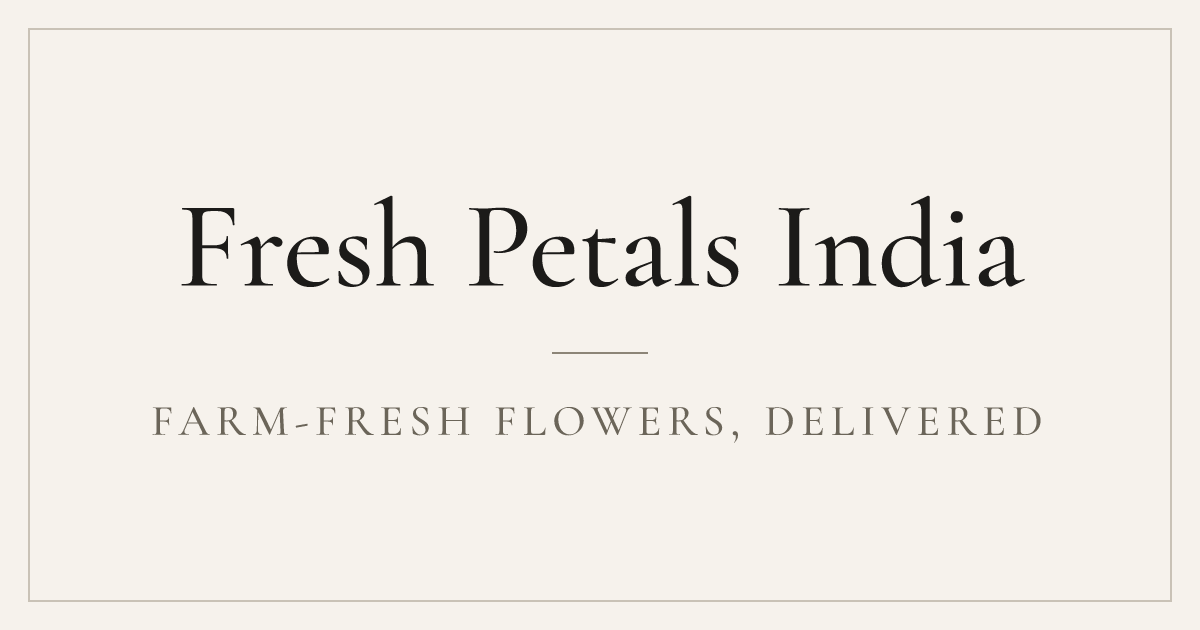
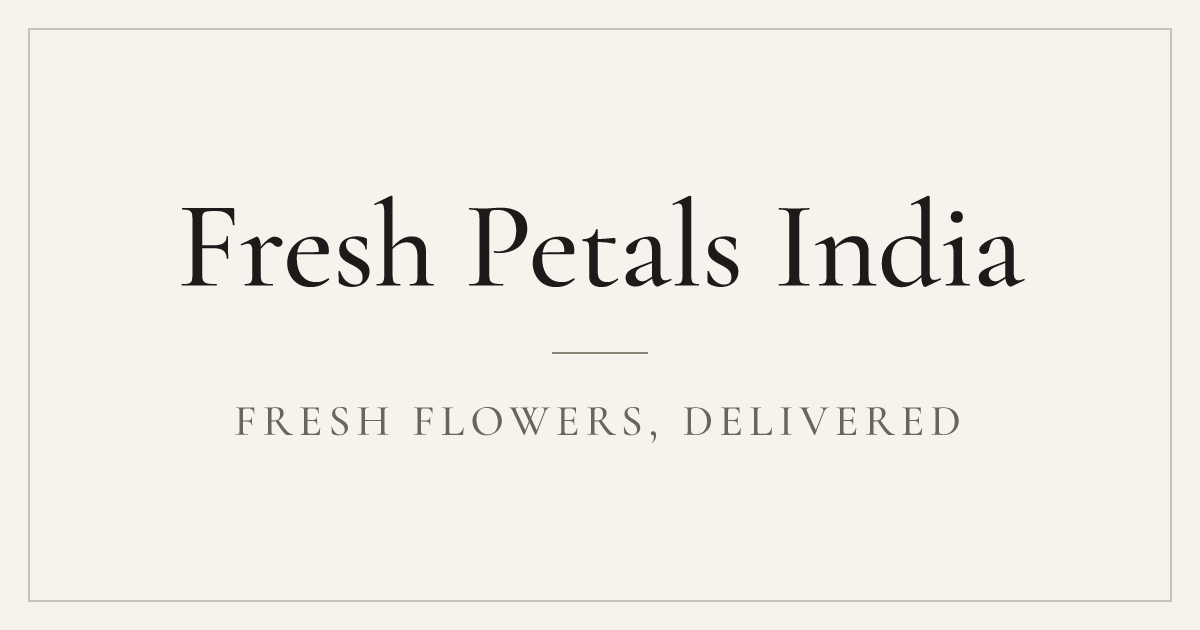
fix(storefront): og/twitter images + site name on all listings, neutral copy, shipping parity, tag-preserving redirect, footer socials, permanent /shop redirect

Changed region(s): [[0.1233, 0.6333, 0.8633, 0.6937]]

diff --git a/frontend/src/lib/settings-context.tsx b/frontend/src/lib/settings-context.tsx
@@ -61,16 +61,16 @@ export type StoreSettings = {
 };
 
 const FALLBACK_HERO: StoreHero = {
-  eyebrow: "Hand-tied by our florists",
+  eyebrow: "Fresh cut flowers",
   title: "Fresh-cut flowers, arranged with care.",
-  subtitle: "Fresh-cut stems and bouquets, arranged by our florists in Delhi NCR.",
+  subtitle: "Fresh-cut stems for gifting, for your home and for events in Delhi NCR.",
   ctaLabel: "Shop flowers",
   ctaHref: "/products",
 };
 
 const FALLBACK_USPS: StoreUSP[] = [
-  { title: "Hand-tied by our florists", body: "Every bouquet is arranged by hand in Delhi NCR." },
-  { title: "Fresh-cut stems", body: "Sourced from the flower market and prepared for your vase." },
+  { title: "Chosen with care", body: "Stems are selected and prepared for your vase." },
+  { title: "Fresh-cut stems", body: "Prepared for your vase." },
   { title: "Careful packing", body: "Wrapped so your flowers arrive in good condition." },
   { title: "Made for occasions", body: "Birthdays, anniversaries, weddings or sympathy: we arrange for every moment." },
 ];
@@ -239,6 +239,25 @@ export function whatsappLink(phoneOrUrl: string, message?: string): string | nul
   if (digits.length < 8) return null;
   const base = `https://wa.me/${digits}`;
   return message ? `${base}?text=${encodeURIComponent(message)}` : base;
+}
+
+const SOCIAL_HOSTS = {
+  facebook: /^((www|m|web)\.)?(facebook\.com|fb\.com|fb\.me)$/,
+  youtube: /^((www|m)\.)?(youtube\.com|youtu\.be)$/,
+  pinterest: /^([a-z]{2,3}\.|www\.)?pinterest\.[a-z.]{2,6}$/,
+} as const;
+
+/** Facebook / YouTube / Pinterest profile link: only an https URL on the platform's own host, else null. */
+export function socialLink(kind: keyof typeof SOCIAL_HOSTS, value: string | null | undefined): string | null {
+  const v = value?.trim();
+  if (!v || isPlaceholderSetting(v)) return null;
+  try {
+    const u = new URL(v);
+    if (u.protocol !== "https:" || u.username || u.password) return null;
+    return SOCIAL_HOSTS[kind].test(u.hostname.toLowerCase()) ? u.toString() : null;
+  } catch {
+    return null;
+  }
 }
 
 export function instagramLink(value: string): string | null {

diff --git a/frontend/src/app/products/page.tsx b/frontend/src/app/products/page.tsx
@@ -1,7 +1,7 @@
 import type { Metadata } from "next";
 import CatalogueView from "@/components/product/CatalogueView";
 import { loadCatalogue } from "@/lib/catalogue-data";
-import { metaDescription } from "@/lib/seo";
+import { metaDescription, socialMeta } from "@/lib/seo";
 import { listHref, type RawSearchParams } from "@/lib/list-params";
 
 // R1: never prerender at build time (the API is not reachable during `next build`).
@@ -19,7 +19,7 @@ export async function generateMetadata({ searchParams }: Props): Promise<Metadat
   const title = `Fresh Cut Flowers Online${pageSuffix}`;
   const description =
     metaDescription(
-      "Shop farm-fresh cut flowers, bouquets and plants from Fresh Petals India. Hand-selected stems, delivered fresh.",
+      "Shop fresh cut flowers online from Fresh Petals India. Choose your stems and have them delivered across Delhi NCR.",
       155 - pageSuffix.length,
     ) + pageSuffix;
   // Canonical keeps the filters that change the product set (category, tag, page) and drops sort/search.
@@ -29,7 +29,7 @@ export async function generateMetadata({ searchParams }: Props): Promise<Metadat
     title,
     description,
     alternates: { canonical },
-    openGraph: { title, description, url: canonical, type: "website" },
+    ...socialMeta(title, description, canonical),
     ...(noindex ? { robots: { index: false, follow: true } } : {}),
   };
 }
@@ -46,7 +46,7 @@ export default async function ProductsPage({ searchParams }: Props) {
       activeCategorySlug={params.category}
       eyebrow={params.q ? "Search" : "The collection"}
       heading={heading}
-      intro="Hand-selected stems, bouquets and plants, cut fresh and delivered to your door."
+      intro="Fresh cut flowers, ready to order online and delivered to your door."
       filtered={Boolean(params.category || params.tag || params.q)}
     />
   );

diff --git a/frontend/src/lib/catalogue-data.ts b/frontend/src/lib/catalogue-data.ts
@@ -5,7 +5,7 @@ import { listCategories, listProducts, type ProductPage } from './server-api';
 import { PAGE_SIZE, listHref, parseListParams, type ListParams, type RawSearchParams } from './list-params';
 import { occasionForTag } from './occasions';
 import { shownCategories } from './categories';
-import { metaDescription } from './seo';
+import { metaDescription, socialMeta } from './seo';
 
 export function flattenCategories(list: ApiCategory[]): ApiCategory[] {
   return list.flatMap((c) => [c, ...flattenCategories(c.children ?? [])]);
@@ -23,10 +23,13 @@ export type CatalogueData = {
 
 /**
  * Where a /products?category=|tag= URL permanently lives now (ruling R9), or undefined when it stays on /products.
- * A known category wins over a tag; sort, page and search are carried over; unknown values never redirect.
+ * A known category alone goes to its collection and an occasion tag alone to its occasion page. A category AND a tag
+ * together stay on /products (the landing pages cannot express both, and a redirect would silently drop the tag).
+ * Sort, page and search are carried over; unknown values never redirect.
  */
 export function landingRedirectTarget(params: ListParams, knownCategory?: ApiCategory): string | undefined {
   const rest = { category: undefined, tag: undefined } as const;
+  if (params.category && params.tag) return undefined;
   if (params.category && knownCategory) {
     return listHref(params, rest, `/collections/${encodeURIComponent(knownCategory.slug)}`);
   }
@@ -113,7 +116,7 @@ export function landingMetadata(args: {
     title,
     description,
     alternates: { canonical },
-    openGraph: { title, description, url: canonical, type: 'website' },
+    ...socialMeta(title, description, canonical),
     ...(noindex ? { robots: { index: false, follow: true } } : {}),
   };
 }

diff --git a/frontend/src/app/layout.tsx b/frontend/src/app/layout.tsx
@@ -34,30 +34,31 @@ export const revalidate = 300;
 export const metadata: Metadata = {
   metadataBase: new URL(SITE),
   title: {
-    default: "Fresh Petals India — Cut Flowers, Plants & Corporate Floral Solutions",
+    default: "Fresh Petals India — Cut Flowers & Corporate Floral Solutions",
     template: "%s · Fresh Petals India",
   },
   description:
-    "Farm-fresh cut flowers, indoor plants, and bulk corporate bouquets. Daily mandi-fresh stems, online ordering for cut flowers, custom enquiries for events.",
+    "Fresh cut flowers online, plus custom floral enquiries for corporate clients and events. Order online and have them delivered across Delhi NCR.",
   keywords: [
     "cut flowers",
     "fresh flowers",
     "wholesale flowers",
-    "corporate bouquets",
-    "indoor plants",
+    "corporate flowers",
     "floral arrangements",
     "Delhi flower supplier",
   ],
   openGraph: {
     title: "Fresh Petals India — Cut Flowers & Corporate Florals",
     description:
-      "Farm-fresh cut flowers, indoor plants, and bulk corporate bouquets — sourced fresh from the mandi every morning.",
+      "Fresh cut flowers online, plus custom floral enquiries for corporate clients and events.",
     type: "website",
+    siteName: "Fresh Petals India",
+    locale: "en_IN",
   },
   twitter: {
     card: "summary_large_image",
     title: "Fresh Petals India",
-    description: "Farm-fresh cut flowers, plants & corporate floral solutions.",
+    description: "Fresh cut flowers and corporate floral solutions.",
   },
   icons: {
     icon: "/favicon.ico",

diff --git a/frontend/src/components/chrome/FooterContact.tsx b/frontend/src/components/chrome/FooterContact.tsx
@@ -1,5 +1,5 @@
 "use client";
-import { instagramLink, mailtoLink, telLink, useSettings, whatsappLink } from "@/lib/settings-context";
+import { instagramLink, mailtoLink, socialLink, telLink, useSettings, whatsappLink } from "@/lib/settings-context";
 import { InstagramIcon, WhatsAppIcon } from "./icons";
 
 const link =
@@ -16,9 +16,14 @@ export default function FooterContact() {
   const wa = whatsappLink(s.whatsapp || s.phone);
   const ig = instagramLink(s.instagram);
   const address = s.address.trim();
+  const others = [
+    { label: "Facebook", href: socialLink("facebook", s.social?.facebook) },
+    { label: "YouTube", href: socialLink("youtube", s.social?.youtube) },
+    { label: "Pinterest", href: socialLink("pinterest", s.social?.pinterest) },
+  ].filter((x): x is { label: string; href: string } => Boolean(x.href));
 
   // Nothing configured: no empty column.
-  if (!tel && !mail && !address && !wa && !ig) return null;
+  if (!tel && !mail && !address && !wa && !ig && others.length === 0) return null;
 
   return (
     <div className="col-span-2 lg:col-span-1">
@@ -55,6 +60,13 @@ export default function FooterContact() {
             </a>
           </li>
         )}
+        {others.map((o) => (
+          <li key={o.label}>
+            <a href={o.href} target="_blank" rel="noopener noreferrer" className={link}>
+              {o.label}
+            </a>
+          </li>
+        ))}
       </ul>
     </div>
   );

diff --git a/frontend/src/lib/seo.ts b/frontend/src/lib/seo.ts
@@ -6,6 +6,32 @@ import { PLACEHOLDER_IMAGE } from './product-image';
 /** Canonical site origin, no trailing slash. */
 export const SITE: string = (process.env.NEXT_PUBLIC_SITE_URL || 'https://freshpetalsindia.com').replace(/\/+$/, '');
 
+export const OG_DEFAULT_ALT = 'Fresh Petals India: fresh flowers, delivered';
+
+/**
+ * openGraph + twitter blocks for pages that define their own `openGraph` (which replaces the parent's wholesale
+ * in Next, so image, site name and locale must be repeated). Uses the static brand cards.
+ */
+export function socialMeta(title: string, description: string, url: string) {
+  return {
+    openGraph: {
+      title,
+      description,
+      url,
+      type: 'website' as const,
+      siteName: 'Fresh Petals India',
+      locale: 'en_IN',
+      images: [{ url: '/opengraph-image.png', width: 1200, height: 630, alt: OG_DEFAULT_ALT }],
+    },
+    twitter: {
+      card: 'summary_large_image' as const,
+      title,
+      description,
+      images: [{ url: '/twitter-image.png', width: 1200, height: 630, alt: OG_DEFAULT_ALT }],
+    },
+  };
+}
+
 export function absoluteUrl(path: string): string {
   if (/^https?:\/\//i.test(path)) return path;
   return `${SITE}${path.startsWith('/') ? '' : '/'}${path}`;

diff --git a/frontend/src/components/chrome/__tests__/Footer.test.tsx b/frontend/src/components/chrome/__tests__/Footer.test.tsx
@@ -56,6 +56,18 @@ describe('Footer', () => {
     expect(within(contact).getByRole('link', { name: /Instagram/ })).toHaveAttribute('href', 'https://www.instagram.com/freshpetals');
   });
 
+  it('shows Facebook, YouTube and Pinterest only when they are valid https profile URLs', () => {
+    settings.value = {
+      ...settings.value, phone: '', email: '', address: '', whatsapp: '', instagram: '',
+      social: { facebook: 'https://www.facebook.com/freshpetals', youtube: 'https://evil.example/yt', pinterest: 'https://pinterest.com/freshpetals/' },
+    } as never;
+    render(<Footer />);
+    const contact = screen.getByRole('heading', { name: 'Contact' }).parentElement!;
+    expect(within(contact).getByRole('link', { name: 'Facebook' })).toHaveAttribute('href', 'https://www.facebook.com/freshpetals');
+    expect(within(contact).getByRole('link', { name: 'Pinterest' })).toHaveAttribute('href', 'https://pinterest.com/freshpetals/');
+    expect(within(contact).queryByRole('link', { name: 'YouTube' })).toBeNull(); // off-platform host rejected
+  });
+
   it('shows just the email when only the email is set', () => {
     set({ email: 'hello@example.com' });
     render(<Footer />);

diff --git a/frontend/src/app/page.tsx b/frontend/src/app/page.tsx
@@ -16,16 +16,18 @@ import type { ApiProduct } from "@/lib/api";
 export const dynamic = "force-dynamic";
 
 export const metadata: Metadata = {
-  title: { absolute: "Fresh Flowers & Bouquets Online in Delhi NCR" },
+  title: { absolute: "Fresh Cut Flowers Online in Delhi NCR" },
   description:
-    "Order farm-fresh flowers, bouquets and plants online from Fresh Petals India. Mandi-fresh stems, careful packing and delivery across Delhi NCR.",
+    "Order fresh cut flowers online from Fresh Petals India, with delivery across Delhi NCR. Corporate and event enquiries welcome.",
   alternates: { canonical: "/" },
   openGraph: {
-    title: "Fresh Flowers & Bouquets Online in Delhi NCR",
+    title: "Fresh Cut Flowers Online in Delhi NCR",
     description:
-      "Farm-fresh flowers, bouquets and plants sourced from the mandi every morning and delivered across Delhi NCR.",
+      "Fresh cut flowers delivered across Delhi NCR, with custom enquiries for corporate clients and events.",
     url: "/",
     type: "website",
+    siteName: "Fresh Petals India",
+    locale: "en_IN",
   },
 };
 

diff --git a/frontend/src/app/__tests__/home.test.tsx b/frontend/src/app/__tests__/home.test.tsx
@@ -82,7 +82,7 @@ describe('Home page', () => {
 
   it('renders the USP fallback without delivery claims, and settings USPs when present', async () => {
     const { unmount } = await renderHome();
-    expect(screen.getByText('Hand-tied by our florists')).toBeInTheDocument();
+    expect(screen.getByText('Chosen with care')).toBeInTheDocument();
     unmount();
     getSettings.mockResolvedValue({ 'trust.usp1Title': 'Packed with care', 'trust.usp2Title': 'Quoted for events' });
     await renderHome();
@@ -96,7 +96,7 @@ describe('Home page', () => {
     getHeroSlide.mockRejectedValue(new Error('down')); // the page must not rely on getHeroSlide never throwing
     await renderHome();
     expect(screen.getByRole('heading', { level: 1 })).toBeInTheDocument();
-    expect(screen.getByText('Hand-tied by our florists')).toBeInTheDocument();
+    expect(screen.getByText('Chosen with care')).toBeInTheDocument();
     expect(headingTexts()).toEqual(['Shop by occasion', 'Flowers for work and for gatherings', 'Notes from the studio']);
     expect(console.error).toHaveBeenCalled();
   });

diff --git a/frontend/src/app/checkout/page.tsx b/frontend/src/app/checkout/page.tsx
@@ -1,5 +1,6 @@
 "use client";
 
+import { parseFlatRate, parseFreeThreshold, shippingFor } from "@/lib/shipping";
 import React, { useEffect, useMemo, useRef, useState } from "react";
 import Image from "next/image";
 import Link from "next/link";
@@ -252,12 +253,12 @@ export default function CheckoutPage() {
     }
   }, [user]);
 
-  const flatRate = parseFloat(settings["shipping.flatRate"] || "0") || 0;
-  const freeThreshold = parseFloat(settings["shipping.freeThreshold"] || "0") || 0;
+  // Mirrors the backend rule exactly (see lib/shipping.ts): threshold "0" => every order ships free.
+  const flatRate = parseFlatRate(settings["shipping.flatRate"]);
+  const freeThreshold = parseFreeThreshold(settings["shipping.freeThreshold"]);
   const shipping = useMemo(() => {
     if (count === 0) return 0;
-    if (freeThreshold > 0 && liveSubtotal >= freeThreshold) return 0;
-    return flatRate;
+    return shippingFor(liveSubtotal, flatRate, freeThreshold);
   }, [liveSubtotal, count, flatRate, freeThreshold]);
   const total = liveSubtotal + shipping + liveGstTotal;
 

diff --git a/frontend/src/lib/og-cards.tsx b/frontend/src/lib/og-cards.tsx
@@ -30,7 +30,7 @@ export function BrandCard(): ReactElement {
         <div style={{ fontSize: 124, lineHeight: 1, color: BRAND.charcoal, letterSpacing: -1, display: 'flex' }}>Fresh Petals India</div>
         <div style={{ width: 96, height: 2, background: BRAND.stone, marginTop: 44, marginBottom: 40, display: 'flex' }} />
         <div style={{ fontSize: 44, color: BRAND.stoneDark, letterSpacing: 6, textTransform: 'uppercase', display: 'flex' }}>
-          Farm-fresh flowers, delivered
+          Fresh flowers, delivered
         </div>
       </div>
     </div>
@@ -87,7 +87,7 @@ export function ProductCard({ name, price }: { name: string; price: string | nul
           {price && <div style={{ fontSize: 48, color: BRAND.moss, marginTop: 28, display: 'flex' }}>{price}</div>}
         </div>
         <div style={{ fontSize: 22, color: BRAND.stone, letterSpacing: 2, textTransform: 'uppercase', display: 'flex' }}>
-          Farm-fresh flowers, delivered
+          Fresh flowers, delivered
         </div>
       </div>
     </div>

diff --git a/frontend/src/lib/__tests__/settings-values.test.ts b/frontend/src/lib/__tests__/settings-values.test.ts
@@ -64,3 +64,17 @@ describe('link builders', () => {
     expect(whatsappLink('')).toBeNull();
   });
 });
+
+import { socialLink } from '../settings-context';
+describe('socialLink', () => {
+  it('accepts https profile URLs on the platform host only', () => {
+    expect(socialLink('facebook', 'https://facebook.com/x')).toBe('https://facebook.com/x');
+    expect(socialLink('youtube', 'https://www.youtube.com/@x')).toBe('https://www.youtube.com/@x');
+    expect(socialLink('pinterest', 'https://in.pinterest.com/x/')).toBe('https://in.pinterest.com/x/');
+  });
+  it('rejects http, javascript:, lookalike hosts, credentials, blanks and placeholders', () => {
+    for (const v of ['http://facebook.com/x', 'javascript:alert(1)', 'https://facebook.com.evil.com/x', 'https://evil.com/facebook.com', 'https://a:b@facebook.com/x', '', '  ', 'https://example.com/fb', 'x'])
+      expect(socialLink('facebook', v)).toBeNull();
+    expect(socialLink('youtube', 'https://facebook.com/x')).toBeNull();
+  });
+});
